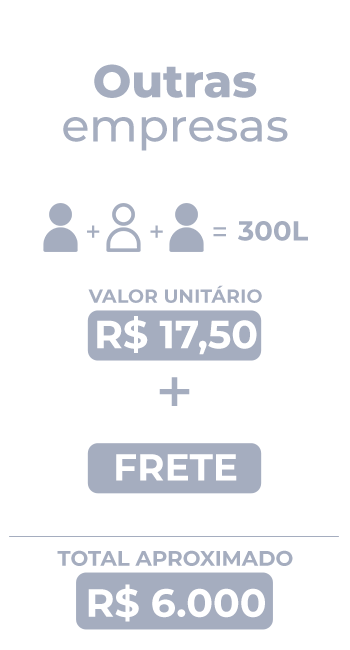
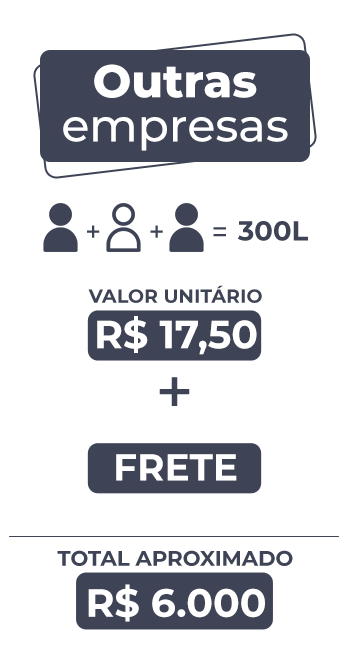
Alteração nova

diff --git a/airpure/index.html b/airpure/index.html
@@ -449,17 +449,17 @@
                 </div>
                 <!-- End of .container -->
             </div>
-            <div class="row pricing-wrapper">
+            <div class="row pricing-wrapper foto-price">
                 <div class="col-lg-4 col-md-6">
-                    <div class="text-center">
-                        <img src="images/p2.1.png" alt="">
+                    <div class="text-center" >
+                        <img src="images/p2.1.png" alt="" style="width: 85%;">
                     </div>
                     <!-- End of .pricing-block -->
                 </div>
                 <!-- End of .col-md-4 -->
                 <div class="col-lg-4 col-md-6">
                     <div class="text-center">
-                        <img src="images/p1.png" alt="">
+                        <img src="images/p1.2.png" alt="">
                     </div>
                     <!-- End of .pricing-block -->
                 </div>

diff --git a/airpure/css/custom.css b/airpure/css/custom.css
@@ -258,7 +258,10 @@ background-image: -webkit-linear-gradient(45deg, #2980B9, #6DD5FA, #FFFFFF);
 
 /* -- Pricing starts
 -------------------------------- -- */
-
+.foto-price {
+	display: flex;
+	align-items: center;
+}
 .pricing {
 	background: url(../images/pricing-bg-shape.png) center calc(100% + 420px) no-repeat;
 	background-size: 100% auto;
